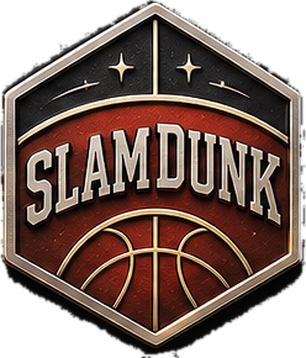
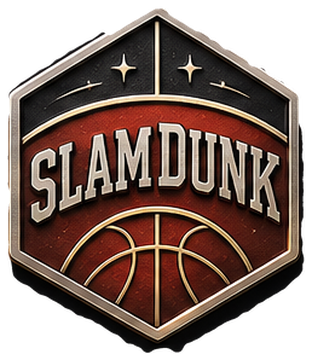
Badges: cleaner smooth cutout edges
Claude-Session: https://claude.ai/code/session_01VUAiFWXURucbTkjgtRgDUq

diff --git a/index.html b/index.html
@@ -1162,7 +1162,7 @@ const work=sp=>WORKS[sp.work];
 
 /* ================= HELPERS ================= */
 /* 포스터 이미지: assets/posters/<장소id>.jpg 를 넣으면 자동으로 표시, 없으면 만화 패널 그래픽 */
-const ASSET_V='2611185';   // 이미지 교체 시 올려 주면 브라우저에 남은 예전 이미지를 쓰지 않아요
+const ASSET_V='2611186';   // 이미지 교체 시 올려 주면 브라우저에 남은 예전 이미지를 쓰지 않아요
 const poster=(sp,dir='posters',src)=>`<img class="poster" alt="" src="assets/${dir}/${src||sp.id}.jpg?v=${ASSET_V}" onload="this.parentNode.classList.add('has-img')" onerror="this.parentNode.classList.remove('has-img');this.remove()">`;
 const PALS=[['#ffe3a3','#ff9f7a','#6a5ad8','rgba(40,25,70,.5)'],['#c9ecff','#6cbcf5','#2a6fd6','rgba(10,40,90,.5)'],['#ffd6e7','#f59bc4','#8a5ad6','rgba(60,20,70,.5)'],['#d7f7e4','#7fd6b0','#2a8f9c','rgba(10,60,60,.5)'],['#fff1c4','#ffc56b','#e86a4a','rgba(80,30,20,.5)']];
 const ph=(label,h=160,extra='',center='')=>{const k=[...(label+h)].reduce((a,c)=>a+c.charCodeAt(0),0)%PALS.length,p=PALS[k];return`<div class="ph cart" style="height:${h}px;--c1:${p[0]};--c2:${p[1]};--c3:${p[2]};--c4:${p[3]};${extra}"><div class="gr"></div>${center?`<div class="x">${center}</div>`:''}${label?`<span class="lb">${label}</span>`:''}</div>`};
